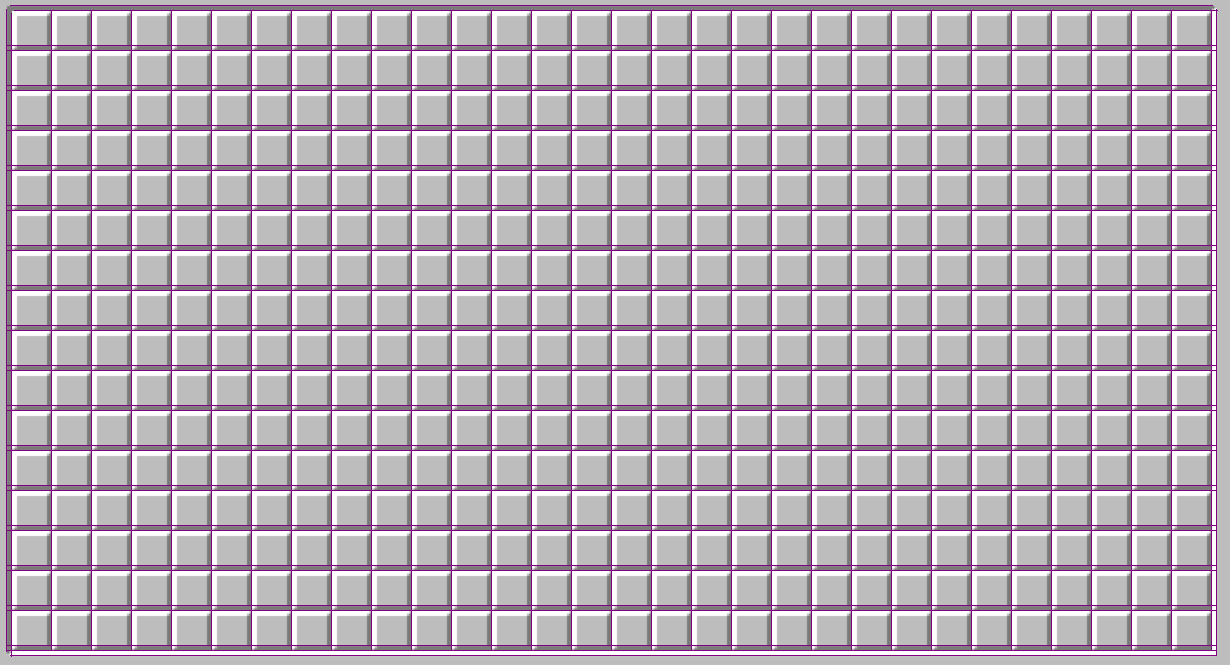
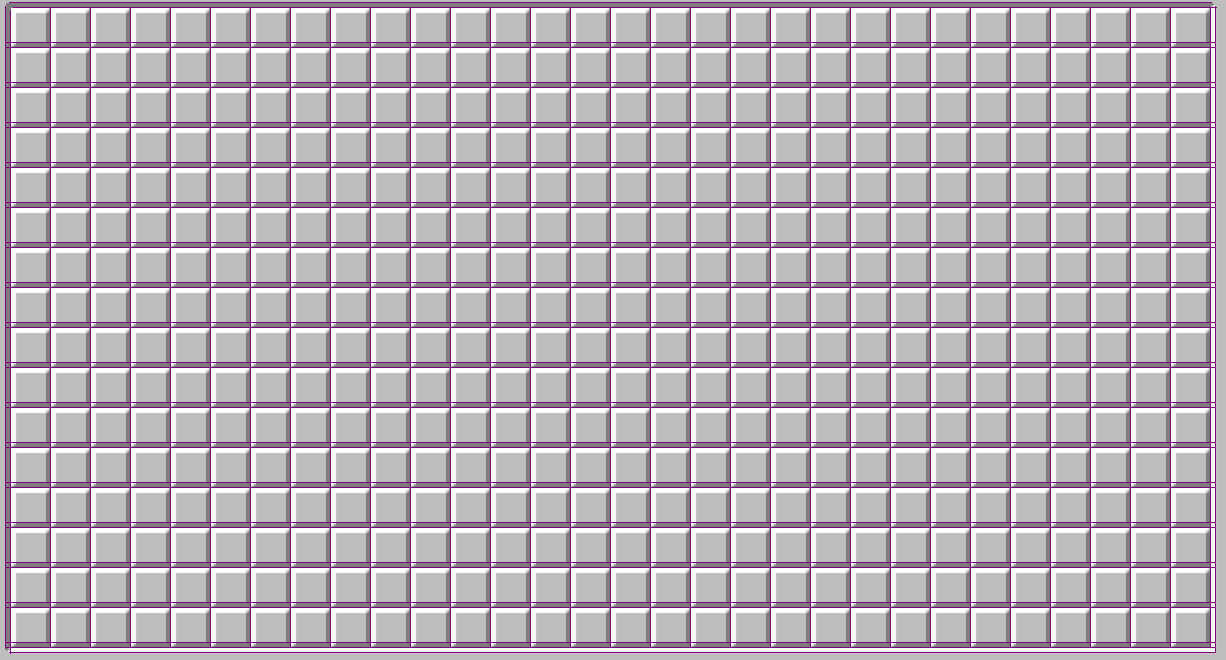
something broke w/ the manual minesweeper pixel finding. fixed

Changed region(s): [[0.0, 0.0, 0.9918, 1.0]]

diff --git a/board_dimensions.py b/board_dimensions.py
@@ -23,7 +23,7 @@ def drawLines(img, lines):
     i = 0
     if lines is not None:
         for line in lines:
-            print(line)
+            # print(line)
             x1, y1, x2, y2 = line
             cv2.line(img, (x1, y1), (x2, y2), (128, 0, 128), 1)
             # if i == 2:
@@ -48,16 +48,15 @@ def getCellSize(filtered_horizontal_lines, filtered_vertical_lines):
     cellSizeX = (filtered_vertical_lines[1][0] - filtered_vertical_lines[0][0]) #horizontal lines will by Y distance apart [x1 y1 x2 y2]
     #TODO better checking for robustness. make sure all lines are the same distance apart
     return (cellSizeX, cellSizeY)
-    print("hello")
 
 """ Get bounding box for minesweeper cells aray"""
 def getCellsBB(filtered_hlines, filtered_vlines):
-    print("horizontal")
-    print(filtered_hlines[0])
-    print(filtered_hlines[-1])
-    print("vertical")
-    print(filtered_vlines[0])
-    print(filtered_vlines[-1])
+    # print("horizontal")
+    # print(filtered_hlines[0])
+    # print(filtered_hlines[-1])
+    # print("vertical")
+    # print(filtered_vlines[0])
+    # print(filtered_vlines[-1])
 
     yUpper = filtered_hlines[0][1]
     yLower = filtered_hlines[-1][1]
@@ -135,9 +134,9 @@ def filterGridlines(horizontal_lines, vertical_lines):
 def getBoardDimensions():
     global debugImgId
     # Capture an image that contains the game board 
-    screenshot = pyautogui.screenshot(region=(115, 306, 1345-115, 971-306)) #region=(left, top, width, height)
-    screenshotTopLeft = (115, 306)
-    screenshotBottomRight = (1345-115, 971-306)
+    screenshot = pyautogui.screenshot(region=(60, 267, 1286-60, 927-267)) #region=(left, top, width, height)
+    screenshotTopLeft = (60, 267)
+    screenshotBottomRight = (1286-60, 927-267)
     screenshotName = '{:02}_minesweeper.png'.format(debugImgId)
     debugImgId += 1
     screenshot.save(screenshotName)
@@ -178,7 +177,6 @@ def getBoardDimensions():
 
     print("topleft: {}".format(BBTopLeft))
     print("bottomright: {}".format(BBBottomRight))
-    print("cell size: {}".format(cellSize))
 
     topLeftScreenCoords = (screenshotTopLeft[0] + BBTopLeft[0], screenshotTopLeft[1] + BBTopLeft[1])
     bottomRightScreenCoords = (screenshotTopLeft[0] + BBBottomRight[0], screenshotTopLeft[1] + BBBottomRight[1])

diff --git a/ScreenManager.py b/ScreenManager.py
@@ -11,8 +11,12 @@ class ScreenManager:
         self.MAX_X = MAX_X
         self.MAX_Y = MAX_Y      
 
-        self.numXCells = /cellSizeX
-        self.numYCells =  /cellSizeY
+
+        self.numXCells = (BBBottomRight[0]-BBTopLeft[0])/cellSize[0]
+        self.numYCells = (BBBottomRight[1]-BBTopLeft[1])/cellSize[1]
+        print("numXCells: ", self.numXCells)
+        print("numYCells: ", self.numYCells)
+        print("maxX, maxY: ", MAX_X, MAX_Y)
 
     def calcPosHelper(self, r, c):
         x = self.BBTopLeft[0] + c*self.cellSize[0] + self.cellSize[0]//2

diff --git a/minesweeper.py b/minesweeper.py
@@ -27,7 +27,6 @@ class CellState(Enum):
 
 # pyautogui.displayMousePosition() # Run this to get the current mouse position as mouse moves
 
-
 def main():
     boardVars = getBoardDimensions()
     # boardVars = getDebugBoardDimensions()

diff --git a/debug_vars.py b/debug_vars.py
@@ -1,1 +1,6 @@
 debugImgId = 1
+
+# import pyautogui
+# while True:
+#     x, y = pyautogui.position()
+#     print(f"Mouse position: ({x}, {y})", end='\r')
